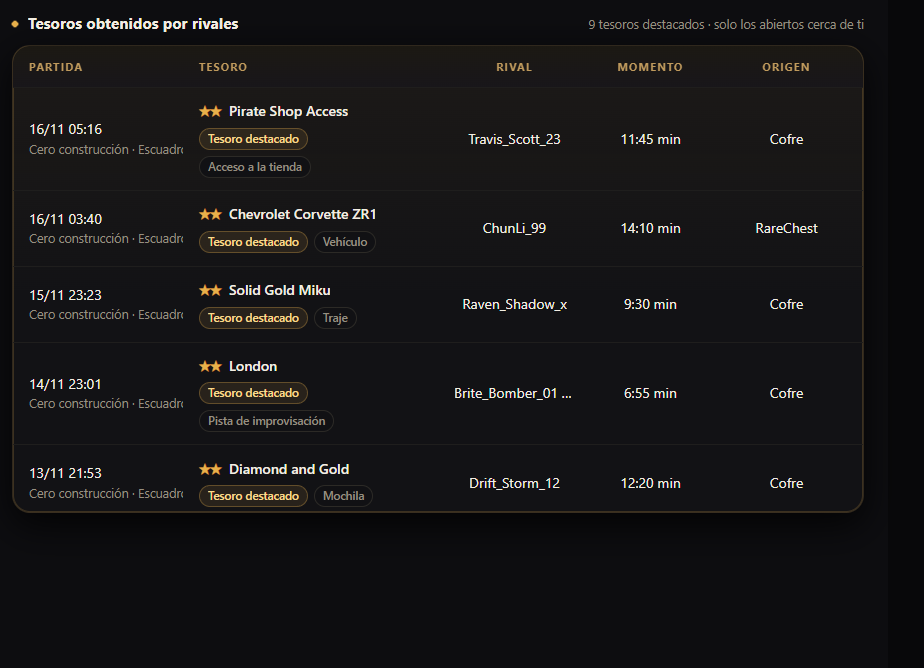
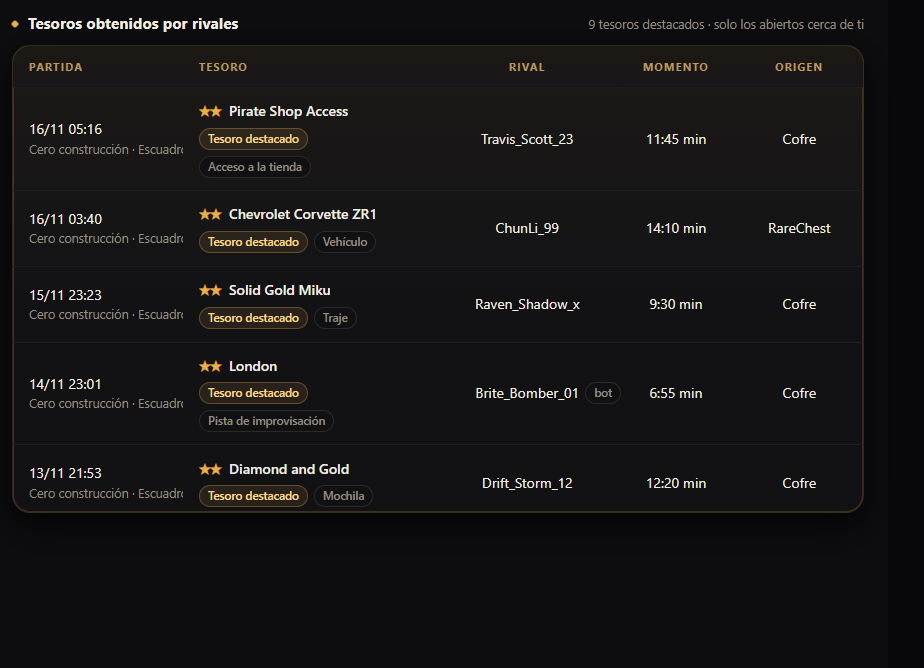
Centrar nombre de rivales ignorando etiqueta de bot y actualizar capturas

diff --git a/src/Stats/Page/stats.css b/src/Stats/Page/stats.css
@@ -152,9 +152,10 @@ h2::before{content:"";display:inline-block;width:6px;height:6px;border-radius:2p
 .tre-list tbody tr{height:var(--row)}
 /* both lists of treasures share their columns, so one sits right under the other (narrow screens scroll sideways) */
 .tre-list table{table-layout:fixed;min-width:760px}
-.tre-list th:nth-child(1){width:20%}.tre-list th:nth-child(2){width:30%}.tre-list th:nth-child(3){width:18%}
-.tre-list th:nth-child(4){width:14%}.tre-list th:nth-child(5){width:18%}
+.tre-list th:nth-child(1){width:20%}.tre-list th:nth-child(2){width:30%}.tre-list th:nth-child(3){width:21%}
+.tre-list th:nth-child(4){width:14%}.tre-list th:nth-child(5){width:15%}
 .tre-list td{overflow:hidden;text-overflow:ellipsis}
+.tre-list td:nth-child(3){overflow:visible}
 .tre-list>.sheet{max-height:60vh;overflow:auto}
 .list-void{display:grid;place-items:center;min-height:var(--two-rows);padding:16px;text-align:center}
 .list-void .note{margin:0}
@@ -241,6 +242,8 @@ td.foot-note{text-align:center;padding:14px 16px}
 .tr-tags{display:flex;flex-wrap:wrap;gap:6px;margin-top:6px}
 .chipl{display:inline-flex;align-items:center;padding:1px 8px;border-radius:99px;font-size:11.5px;font-weight:600;white-space:nowrap;background:var(--bg2);color:var(--muted);border:1px solid var(--line2)}
 .chipl.chip-gold{color:var(--gold-hi);background:var(--gold-soft);border-color:var(--gold-line)}
+.player-bot{position:relative;display:inline-flex;align-items:center}
+.player-bot .chipl{position:absolute;left:100%;margin-left:6px}
 .void{padding:28px 20px;text-align:center;color:var(--muted)}
 .void-big{padding:56px 24px;font-size:14.5px}
 .void-big .star{display:block;font-size:30px;margin-bottom:8px}

diff --git a/src/Stats/TreasuresTab.cs b/src/Stats/TreasuresTab.cs
@@ -65,7 +65,9 @@ internal static class TreasuresTab
         {
             var who = rival.Player == null
                 ? $"<span class=\"muted\">{L.T("Desconocido", "Unknown")}</span>"
-                : Esc(rival.Player) + (rival.Bot ? $" <span class=\"chipl\">{L.T("bot", "bot")}</span>" : "");
+                : rival.Bot
+                    ? $"<span class=\"player-bot\">{Esc(rival.Player)}<span class=\"chipl\">{L.T("bot", "bot")}</span></span>"
+                    : Esc(rival.Player);
             var find = new TreasureFind { PrizeId = rival.PrizeId, FromPrizeChest = true };
             html.Append("<tr>")
                 .Append($"<td class=\"nowrap\">{L.DateTimeShort(LocalStart(match))}<div class=\"note\">{Esc(Pretty.Playlist(match.Playlist))}</div></td>")
